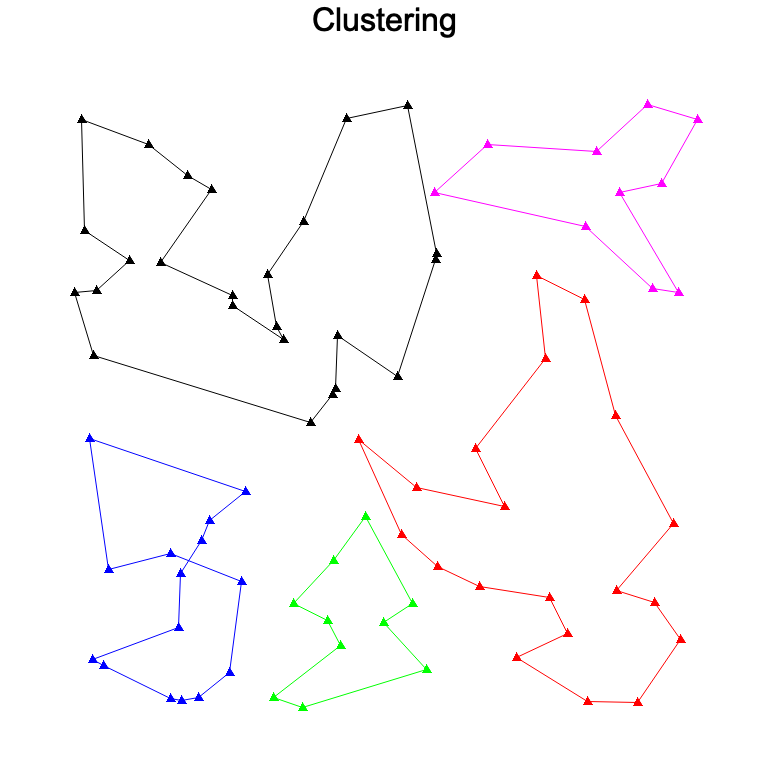
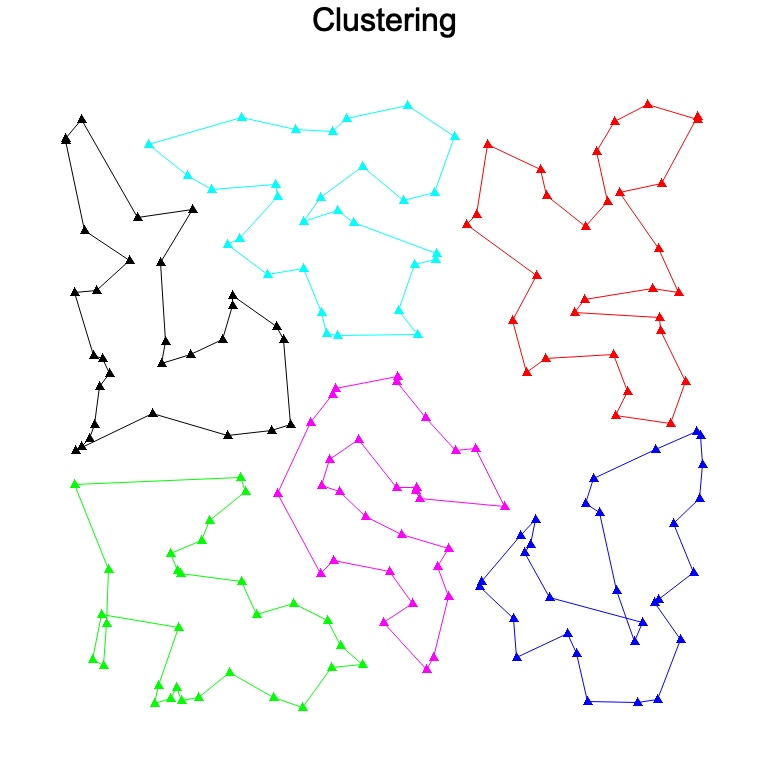
can get ith salesman

diff --git a/src/cluster/test_cluster.rs b/src/cluster/test_cluster.rs
@@ -40,3 +40,24 @@ fn test_cluster_i_metric_from_order() {
         9.0
     );
 }
+
+#[test]
+fn test_get_salesman_index() {
+    let salesmen_capacities = vec![10, 5, 5];
+    assert_eq!(get_salesman_index(0, &salesmen_capacities), 0);
+    assert_eq!(get_salesman_index(1, &salesmen_capacities), 0);
+    assert_eq!(get_salesman_index(9, &salesmen_capacities), 0);
+    assert_eq!(get_salesman_index(10, &salesmen_capacities), 1);
+    assert_eq!(get_salesman_index(14, &salesmen_capacities), 1);
+    assert_eq!(get_salesman_index(15, &salesmen_capacities), 2);
+    assert_eq!(get_salesman_index(16, &salesmen_capacities), 2);
+    assert_eq!(get_salesman_index(19, &salesmen_capacities), 2);
+    assert_eq!(get_salesman_index(20, &salesmen_capacities), 3);
+    assert_eq!(get_salesman_index(24, &salesmen_capacities), 3);
+}
+#[test]
+#[should_panic]
+fn panic_get_salesman_index() {
+    let salesmen_capacities = vec![10, 5, 5];
+    get_salesman_index(25, &salesmen_capacities);
+}

diff --git a/src/cluster.rs b/src/cluster.rs
@@ -71,7 +71,7 @@ pub fn cluster_order(points: &[(f32, f32)], salesmen_capacities: &[usize]) -> Ve
     if points.len() < 2 {
         return cluster.order;
     }
-    let intensity = 8.0_f32; // costs more computational time
+    let intensity = 10.0_f32; // costs more computational time
     let temp_coeff = 1.0 - (-intensity).exp();
 
     let mut temperature = 100.0 * distance(cluster.access(0), cluster.access(1));
@@ -137,6 +137,15 @@ fn cluster_metric(points: &[(f32, f32)]) -> f32 {
         result += distance(point, b);
     }
     result
+}
+
+#[allow(dead_code)]
+fn get_salesman_index(i: usize, salesmen_capacities: &[usize]) -> usize {
+    let mut index = 0;
+    while salesmen_capacities[0..(index + 1)].iter().sum::<usize>() - 1 < i {
+        index += 1;
+    }
+    index
 }
 
 fn distance(p: (f32, f32), q: (f32, f32)) -> f32 {

diff --git a/src/plot.rs b/src/plot.rs
@@ -59,7 +59,7 @@ pub fn plot_clusters(_points: &[(f32, f32)], _salesmen_capacities: &[usize], fil
         let range_start = salesmen_capacities[0..i].iter().sum::<usize>();
         let range_end = salesmen_capacities[0..(i + 1)].iter().sum::<usize>();
         let range = range_start..range_end;
-        let filtered_points = sorted_points[range].iter().map(|&x| x).collect::<Vec<_>>();
+        let filtered_points = sorted_points[range].to_vec();
         let my_color = my_colors[i % my_colors.len()];
 
         // run salesman algorithm on filtered_points.

diff --git a/src/bin/graph_clusters.rs b/src/bin/graph_clusters.rs
@@ -1,6 +1,7 @@
 fn main() {
-    let rand_points = salesman::example::rand_points_from_chacha(80);
-    let salesmen_capacities = vec![25, 20, 15, 10, 10];
+    let num_points = 180;
+    let rand_points = salesman::example::rand_points_from_chacha(num_points);
+    let salesmen_capacities = [num_points / 6; 6];
     let points = salesman::anneal::shortest_path(&rand_points, 1);
     salesman::plot::plot_clusters(&points, &salesmen_capacities, "clustering");
 }

diff --git a/src/anneal.rs b/src/anneal.rs
@@ -101,7 +101,7 @@ fn path_order_once(points: &[(f32, f32)]) -> Vec<usize> {
     if points.len() < 2 {
         return path.order;
     }
-    let intensity = 10.0_f32; // costs more computational time
+    let intensity = 12.0_f32; // costs more computational time
     let temp_coeff = 1.0 - (-intensity).exp();
 
     let mut temperature = 100.0 * distance(path.access(0), path.access(1));
